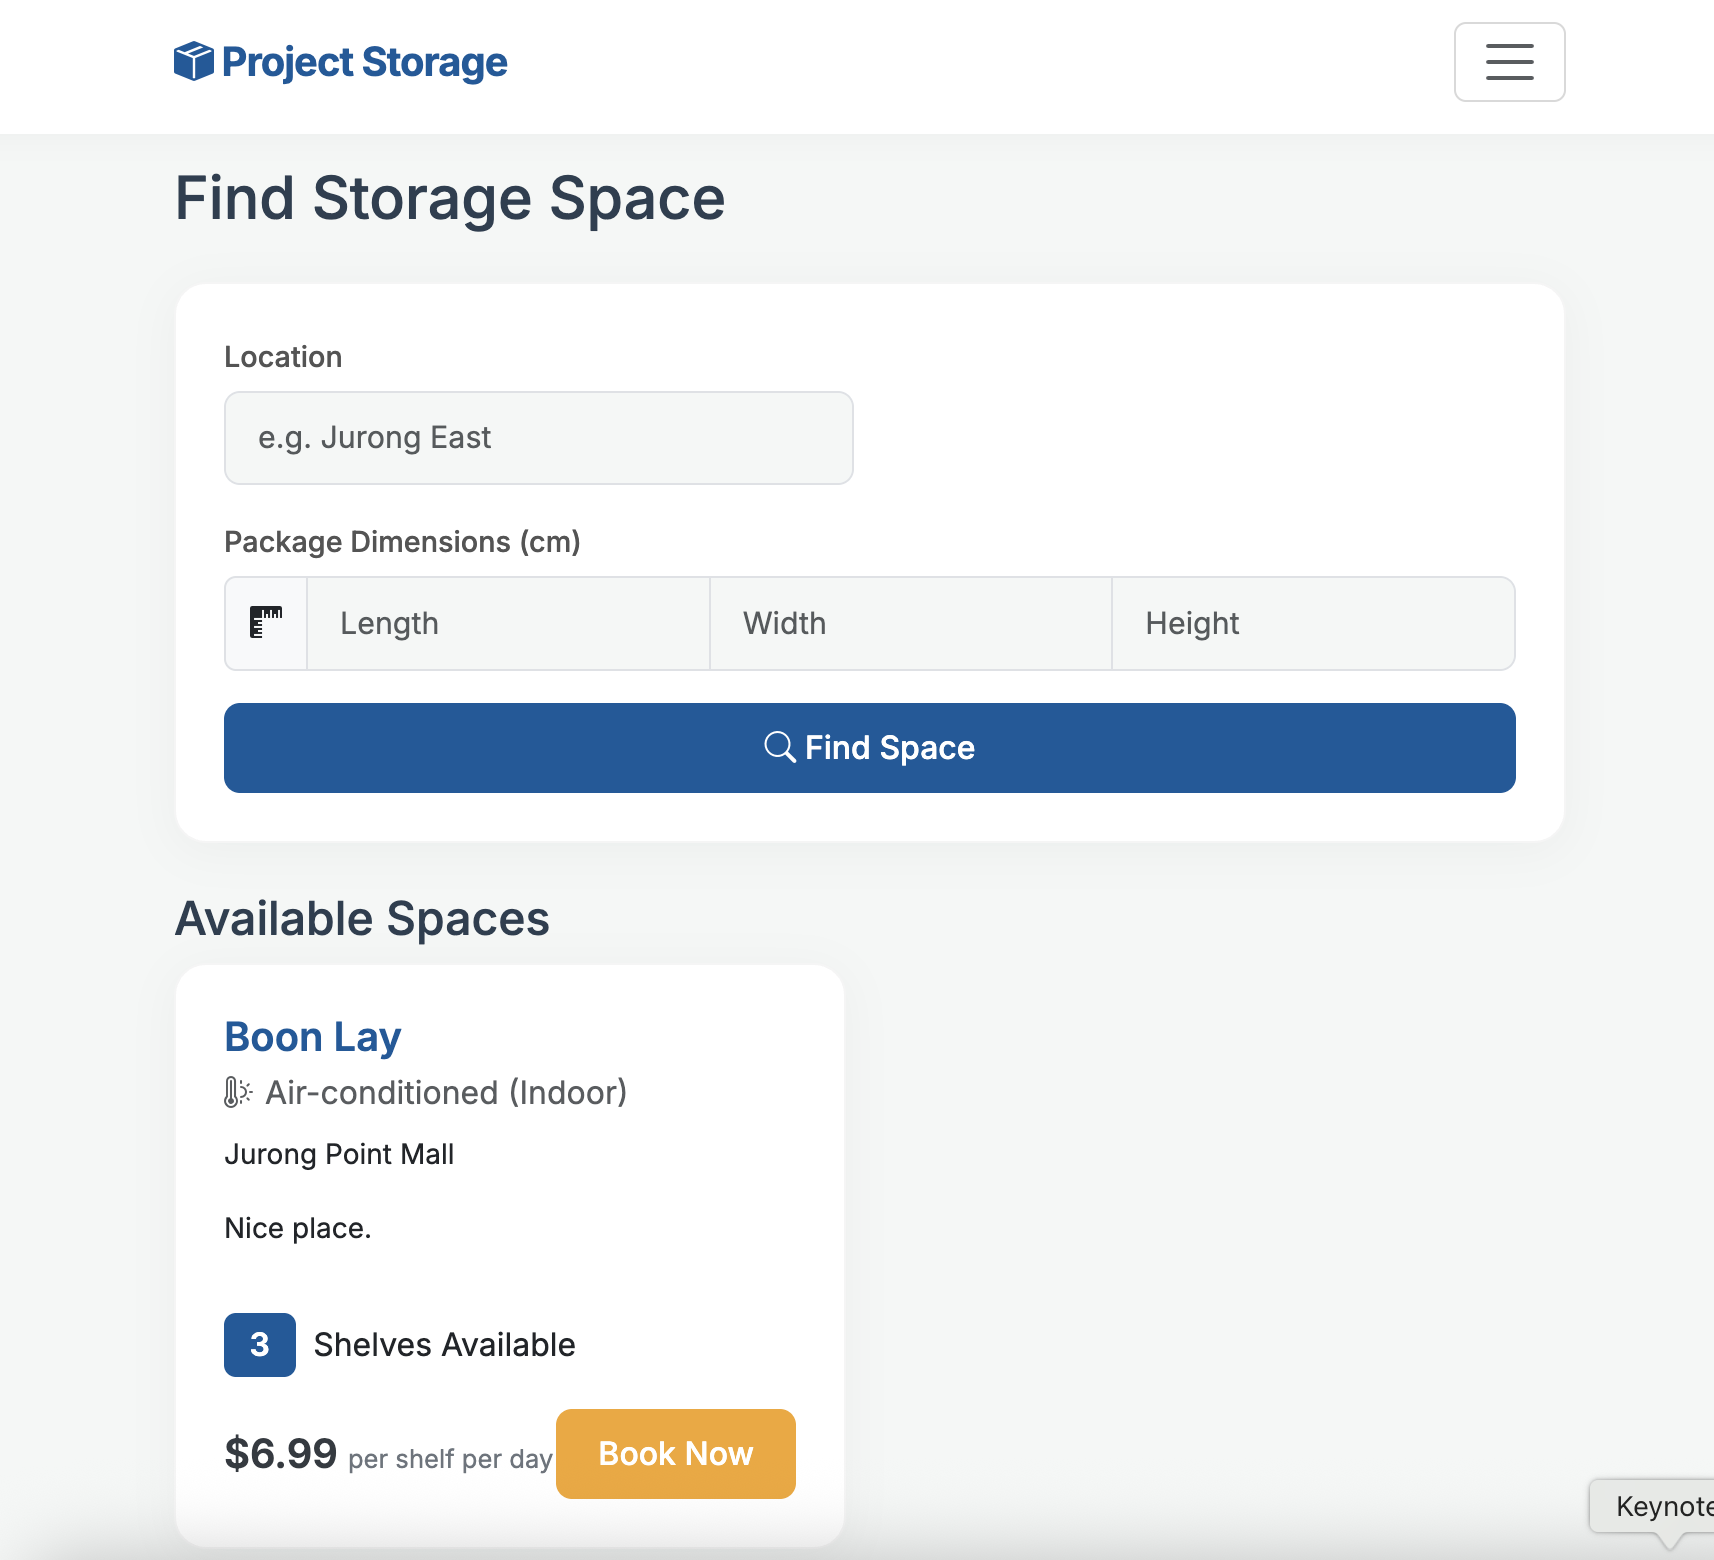
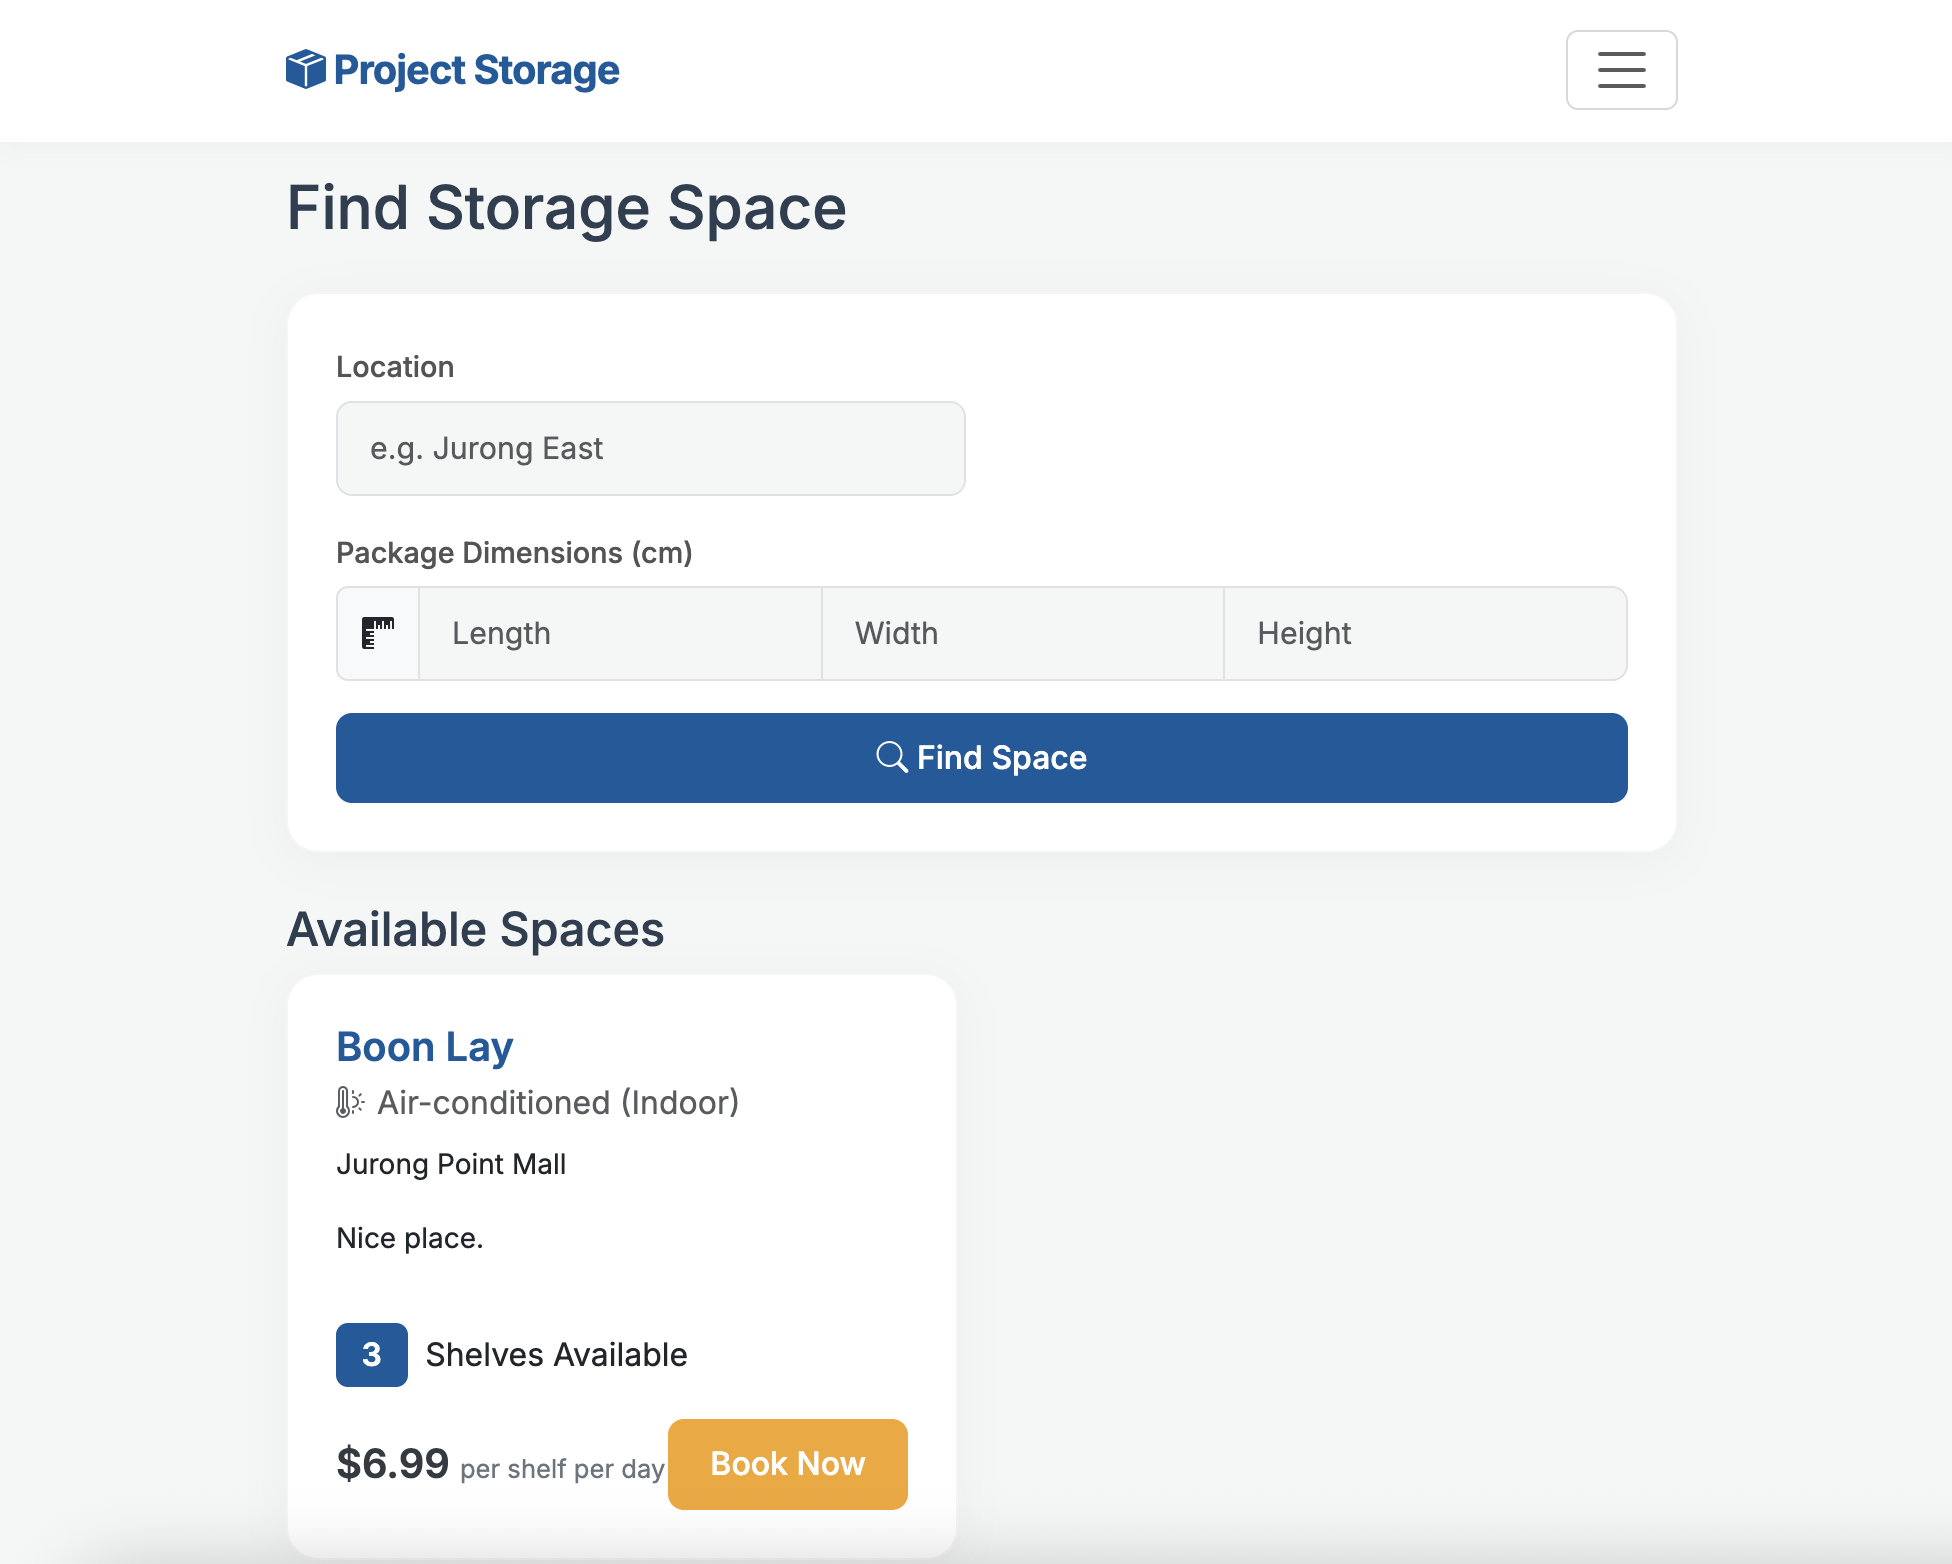
Update Project Storage Index Image

diff --git a/index.html b/index.html
@@ -197,7 +197,7 @@
 
             <div class="col-lg-4 col-md-6 portfolio-item isotope-item filter-project">
               <div class="portfolio-content h-100">
-                <img src="assets/img/portfolio/ps-1.png" class="img-fluid" alt="">
+                <img src="assets/img/portfolio/ps-main.png" class="img-fluid" alt="">
                 <div class="portfolio-info">
                   <h4>Project Storage - P2P Marketplace</h4>
                   <p>Django-powered storage marketplace with Best-Fit allocation algorithm and service-layer architecture</p>
